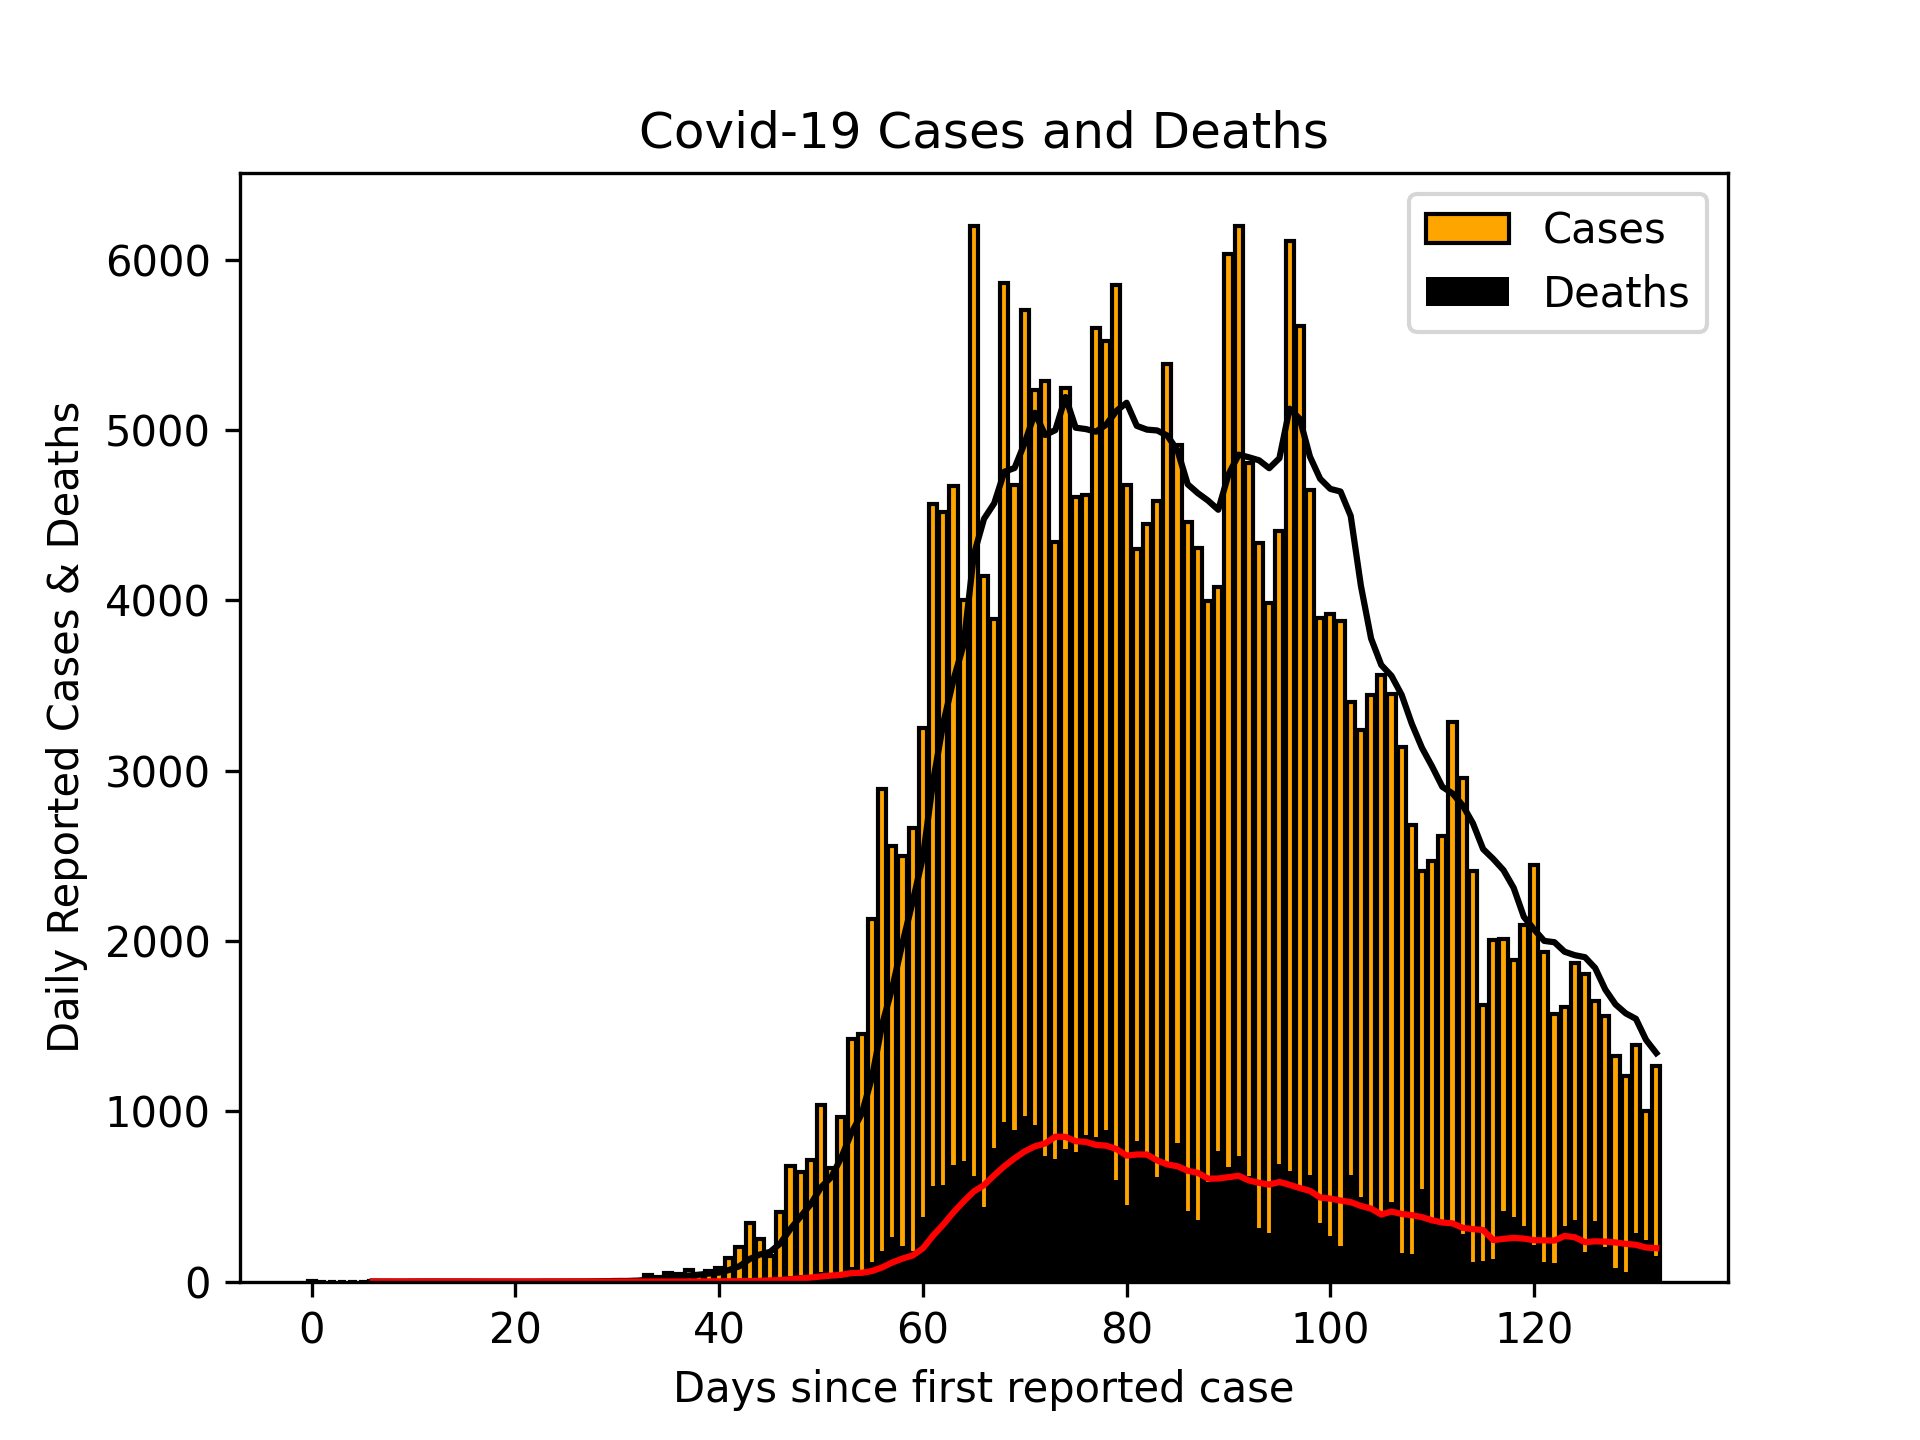
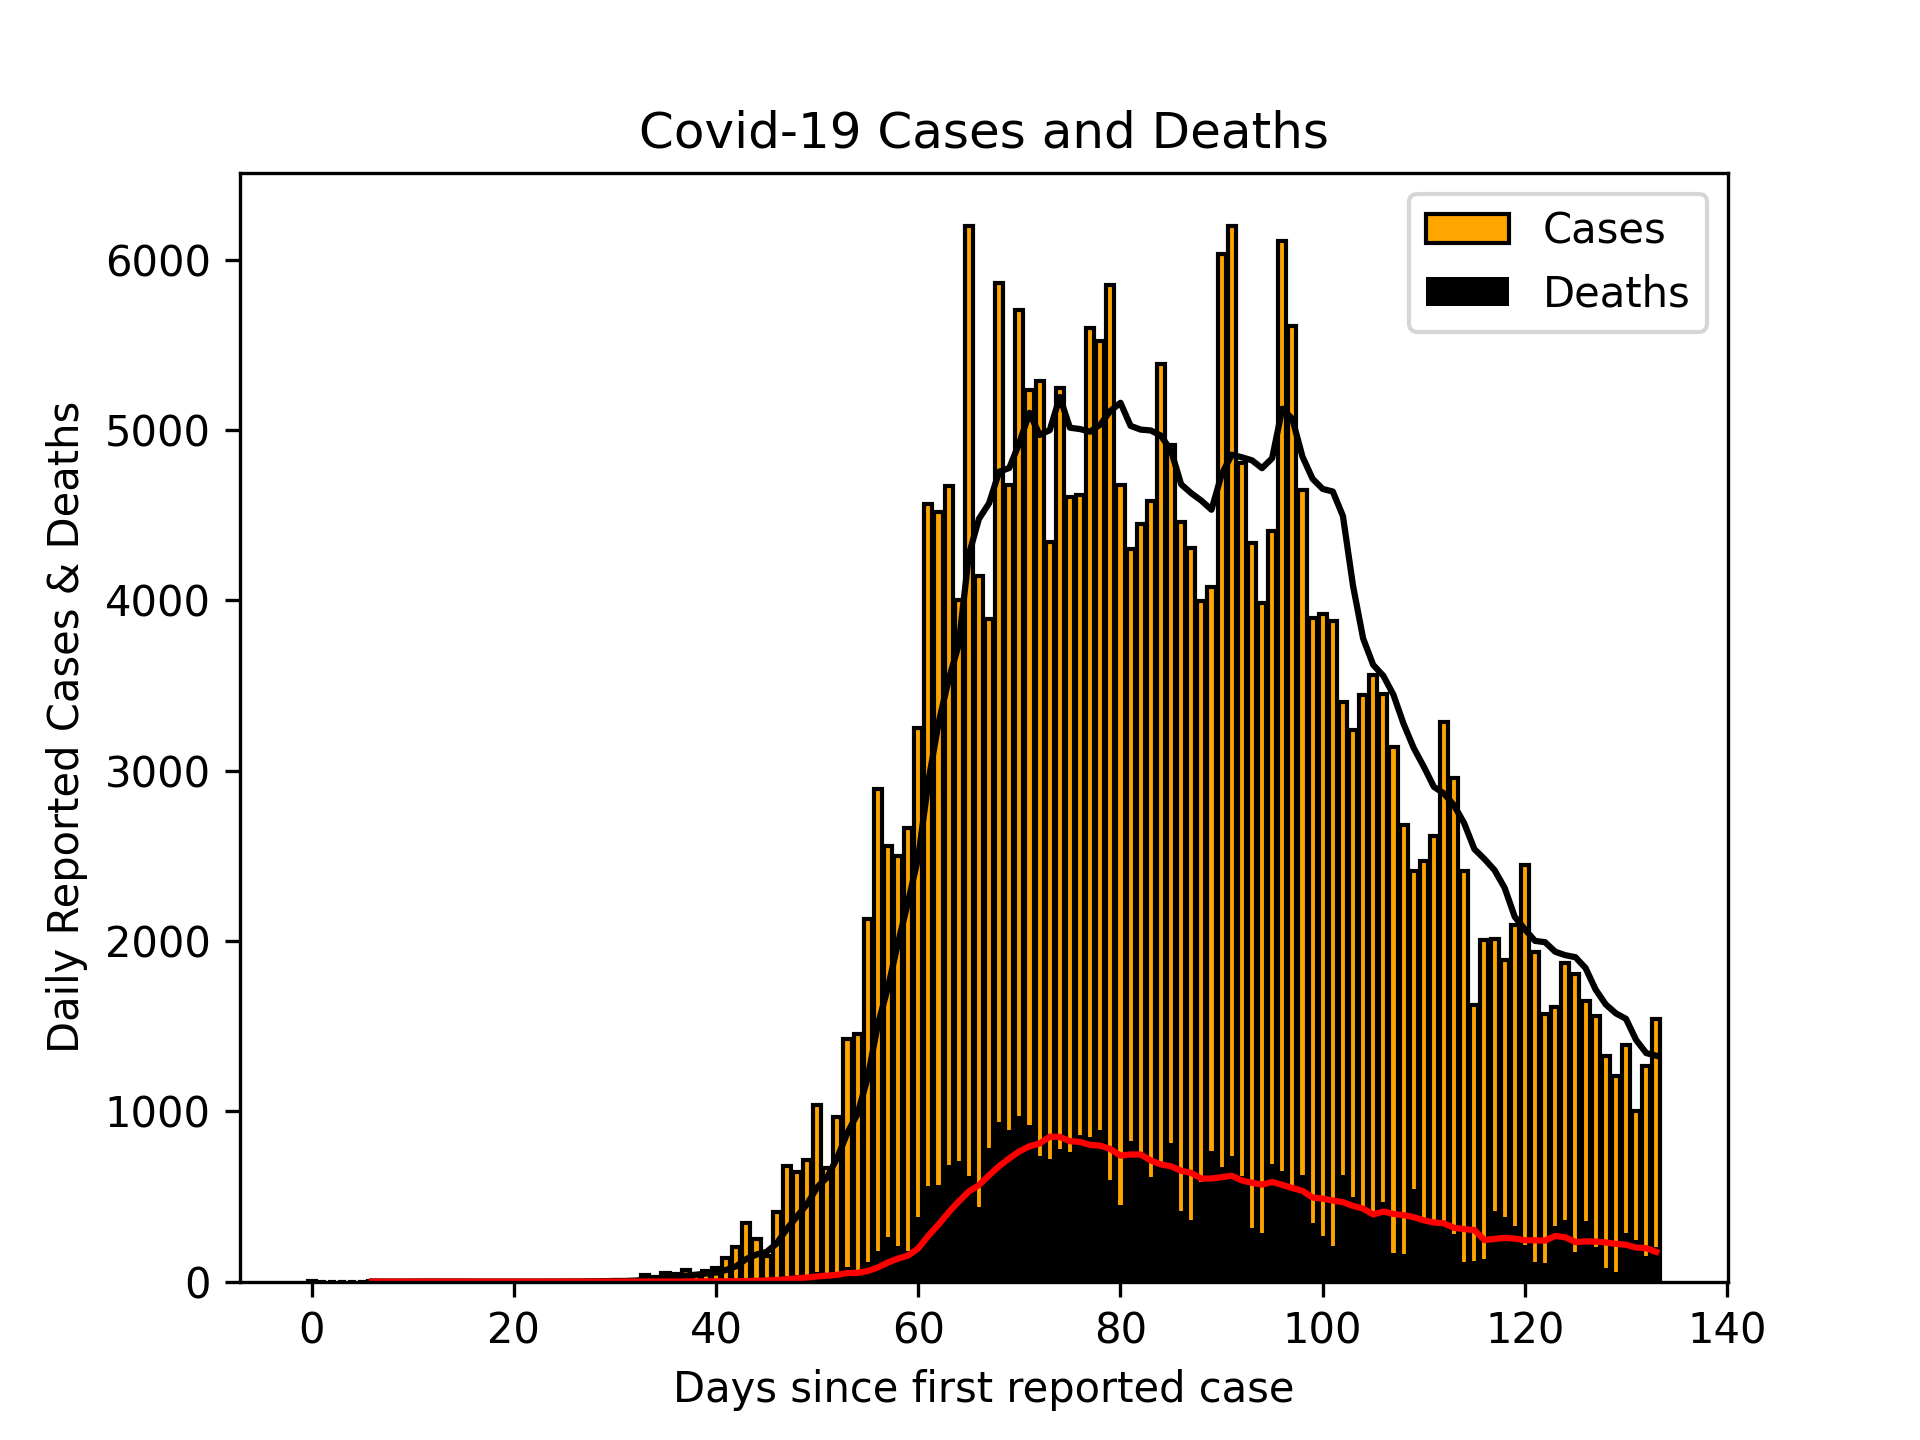
Updated UK cases 12/06/20

diff --git a/README.md b/README.md
@@ -1,5 +1,5 @@
 # Scottish Cases 12/06/20
 ![alt](scottish_cases.png)
 
-# UK Cases 11/06/20
+# UK Cases 12/06/20
 ![alt](uk_cases.png)
